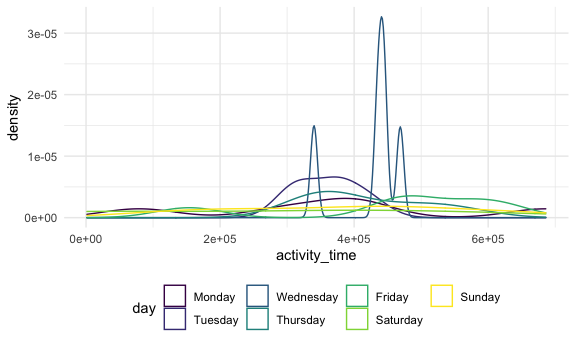
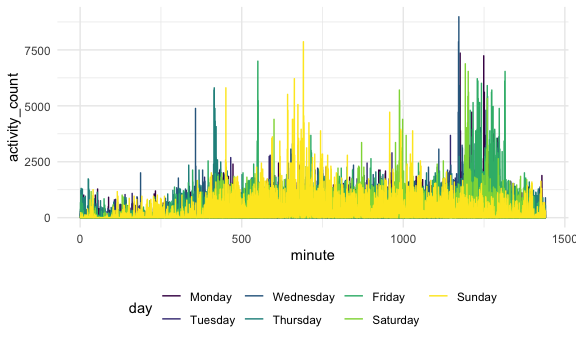
added axis labels, reformatted some plots

diff --git a/hw3.md b/hw3.md
@@ -9,7 +9,7 @@ This code chunk calls any relevant libraries and setting options.
 ``` r
 library(tidyverse)
 library(p8105.datasets)
-library(ggridges)
+library(patchwork)
 
 knitr::opts_chunk$set(
   fig.width = 6,
@@ -53,22 +53,7 @@ instacart %>%
   arrange(desc(n))
 ```
 
-    ## # A tibble: 134 x 2
-    ##    aisle                              n
-    ##    <chr>                          <int>
-    ##  1 fresh vegetables              150609
-    ##  2 fresh fruits                  150473
-    ##  3 packaged vegetables fruits     78493
-    ##  4 yogurt                         55240
-    ##  5 packaged cheese                41699
-    ##  6 water seltzer sparkling water  36617
-    ##  7 milk                           32644
-    ##  8 chips pretzels                 31269
-    ##  9 soy lactosefree                26240
-    ## 10 bread                          23635
-    ## # … with 124 more rows
-
-Let’s make a plot\!
+Now, we need to make a plot of the number of orders purchased per aisle.
 
 ``` r
 instacart %>% 
@@ -80,7 +65,13 @@ instacart %>%
   ) %>% 
   ggplot(aes(x = aisle, y = n)) + 
   geom_point() +
-  theme(axis.text.x = element_text(angle = 90, vjust = 0.5, hjust = 1))
+  theme(axis.text.x = element_text(angle = 90, vjust = 0.5, hjust = 1)) +
+  labs(
+    title = "Aisle order plot",
+    x = "Aisle names",
+    y = "Number of orders",
+    caption = "Data from instacart."
+    )
 ```
 
 <img src="hw3_files/figure-gfm/unnamed-chunk-4-1.png" width="90%" />
@@ -124,8 +115,6 @@ instacart %>%
   )
 ```
 
-    ## `summarise()` regrouping output by 'product_name' (override with `.groups` argument)
-
     ## # A tibble: 2 x 8
     ## # Groups:   product_name [2]
     ##   product_name       `0`   `1`   `2`   `3`   `4`   `5`   `6`
@@ -144,9 +133,9 @@ accel_df =
   janitor::clean_names() %>% 
   pivot_longer(
     activity_1:activity_1440,
-    names_to = "activity",
+    names_to = "minute",
     names_prefix = "activity_",
-    values_to = "measures"
+    values_to = "activity_count"
   ) %>% 
   mutate(
     day_type = recode(
@@ -166,21 +155,23 @@ accel_df =
                                       "Friday",
                                       "Saturday",
                                       "Sunday")),
-    activity = as.integer(activity)
+    minute = as.integer(minute)
   )
 ```
 
 This dataset includes accelerometer data collected from a 65 year old
-patient. The variables included are week, day\_id, day, activity,
-measures, day\_type. There are a total of 50400 rows and 6 columns. The
-total number of **activity** measurements taken is 1440. Measurements
-were taken every Monday, Tuesday, Wednesday, Thursday, Friday, Saturday,
-Sunday, for a total of 5 weeks and 35 days.
+patient. Observations correspond to activity counts over the course of
+24 hours. The variables included are week, day\_id, day, minute,
+activity\_count, day\_type. There are a total of 50400 rows and 6
+columns. Activity counts were taken every minute of the day, for a total
+of 1440 minutes. Measurements were taken every Monday, Tuesday,
+Wednesday, Thursday, Friday, Saturday, Sunday, for a total of 5 weeks
+and 35 days.
 
-The value of the accelerometer readings as per the **measures** variable
-ranges from 1 to 8982. The mean of the accelerometer readings is
-267.0440592, with a standard deviation of 443.1575016. The median is 74,
-with an IQR of 363.
+The value of the accelerometer readings as per the activity\_count
+variable ranges from 1 to 8982. The mean of the accelerometer readings
+is 267.0440592, with a standard deviation of 443.1575016. The median is
+74, with an IQR of 363.
 
 ### Aggregating data
 
@@ -191,7 +182,7 @@ accel_agg =
   accel_df %>% 
   group_by(day) %>% 
   summarize(
-    total_activity = sum(measures)
+    total_activity = sum(activity_count)
   ) %>% 
   knitr::kable(digits = 1)
 ```
@@ -203,14 +194,14 @@ and Sundays but more active on Wednesdays, Thursdays and Fridays.
 ``` r
 accel_df %>% 
   group_by(day_id, day) %>% 
-  summarize(
-    activity_time = sum(measures)
-  ) %>% 
-  ggplot(aes(x = activity_time, color = day)) +
-  geom_density()
+  ggplot(aes(x = minute, y = activity_count, color = day)) +
+  geom_line()
 ```
 
 <img src="hw3_files/figure-gfm/unnamed-chunk-9-1.png" width="90%" />
+
+\*\*Want to see what activity looks like in each minute of each day
+Minute on the x axis, activity count on the y axis
 
 ## Problem 3
 
@@ -221,3 +212,95 @@ data("ny_noaa")
 ```
 
 The following code cleans and tidies the data.
+
+``` r
+noaa_clean = 
+  ny_noaa %>% 
+  janitor::clean_names() %>% 
+  drop_na() %>% 
+  separate(
+    date,
+    sep = "-",
+    into = c("year", "month", "day")
+  ) %>% 
+  mutate(
+    year = as.integer(year),
+    month = as.integer(month),
+    day = as.integer(day),
+    prcp = prcp/10,
+    tmax = as.integer(tmax)/10,
+    tmin = as.integer(tmin)/10
+  )
+```
+
+``` r
+noaa_clean %>% 
+  count(snow) %>% 
+  arrange(desc(n))
+```
+
+    ## # A tibble: 248 x 2
+    ##     snow       n
+    ##    <int>   <int>
+    ##  1     0 1112758
+    ##  2    25   15809
+    ##  3    13   12460
+    ##  4    51    9252
+    ##  5     5    5669
+    ##  6     8    5380
+    ##  7    76    5296
+    ##  8     3    5276
+    ##  9    38    5050
+    ## 10   102    3386
+    ## # … with 238 more rows
+
+The most common observed value for snowfall is 0 mm of snowfall. The
+secondmost common value for snowfall is 25mm. This could suggest either
+seasonality of snowfall, or that some weather stations are located in
+areas that are less likely to have snowfall compared to others.
+
+The following code makes a two-panel plot showing the average max
+temperature in January and July.
+
+``` r
+noaa_clean %>% 
+  group_by(id, year, month) %>% 
+  summarize(
+    average = mean(tmax)
+  ) %>% 
+  filter(month %in% c("6", "7")) %>% 
+  ggplot(aes(x = id, y = average, color = year)) +
+  geom_point(alpha = 0.5, size = 0.5) +
+  facet_grid(. ~ month)
+```
+
+    ## `summarise()` regrouping output by 'id', 'year' (override with `.groups` argument)
+
+<img src="hw3_files/figure-gfm/unnamed-chunk-13-1.png" width="90%" />
+
+Making a two-panel plot showing (i) tmax and tmin and (ii) plot showing
+the distribution of snowfall values greater than 0 and less than 100
+separately by year
+
+``` r
+tmax_tmin_plot = 
+  noaa_clean %>% 
+  select(tmax, tmin) %>% 
+  ggplot(aes(x = tmax, y = tmin)) +
+  geom_hex() +
+  theme(legend.position = "none")
+
+snow_dens_plot = 
+  noaa_clean %>% 
+  filter(
+    snow < 100,
+    snow > 0
+  ) %>% 
+  ggplot(aes(x = year, y = snow)) +
+  geom_violin() +
+  theme(legend.position = "none")
+
+tmax_tmin_plot / snow_dens_plot
+```
+
+<img src="hw3_files/figure-gfm/unnamed-chunk-14-1.png" width="90%" />
